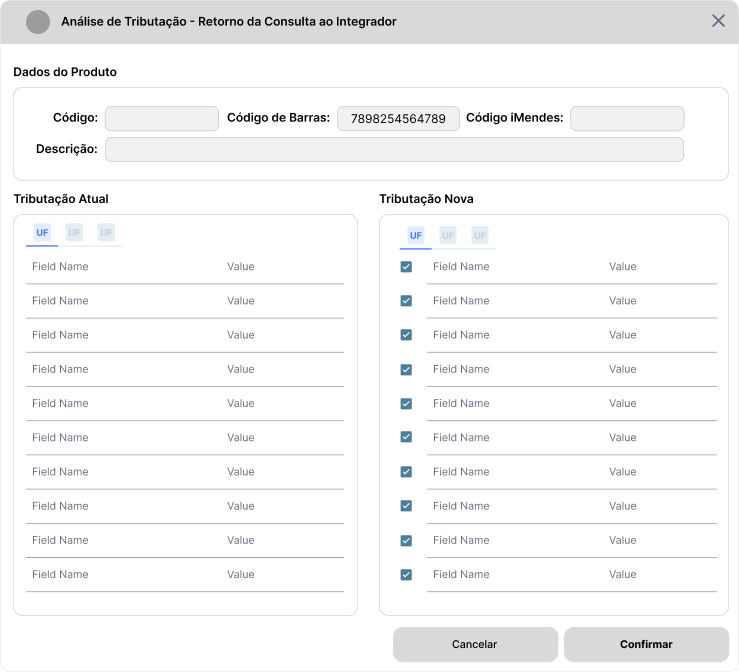
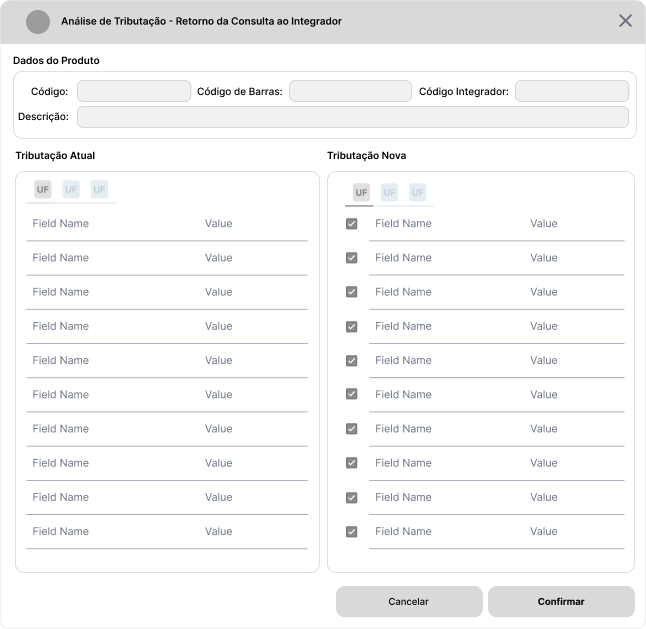
Update Documentation

Changed region(s): [[0.0, 0.0, 1.0, 0.876], [0.4954, 0.2417, 0.9598, 0.876], [0.4954, 0.9062, 0.9907, 0.9968]]

diff --git a/Documentação - Integrações.md b/Documentação - Integrações.md
@@ -38,7 +38,7 @@
 
 O **Roadmap** é um guia que indicará o caminho em uma ordem lógica para a implementação dos Recursos Necessários descritos neste documento. Cada Integrador Fiscal possui uma _rota_ específica que deve ser obedecida para que os objetivos sejam atingidos, entretanto, os **Recursos Globais** devem ser implementados antes de cada Integrador Esepecífico. Abaixo o diagrama.
 
-![Roadmap Completo](./Roadmap-Global.png)
+![Roadmap Completo](./Roadmap-Global0.png)
 
 # Requisitos
 
@@ -63,7 +63,7 @@ Determinados Integradores requerem informações específicas da Empresa que sã
 
 ## Cadastro de Finalidade de Operações
 
-Os Integradores **iMendes** e **Mix Fiscal** requerem que uma **Operação** seja definida durante a Composição de uma Consulta Tributária, e estas possuem dados específicos de envio para que o Retorno de dados tributários sejam coerentes com o **Cenário** informado.
+Alguns Integradores requerem que uma **Operação** seja bem definida durante a composição de uma Consulta Tributária, e estas possuem dados específicos de envio para que o Retorno de dados tributários sejam coerentes com o **Cenário** informado.
 
 - A **iMendes** requer que um Código **CFOP** seja enviado (correto ou não, mas válido e coerente com a operação de Entrada ou Saída desejada) para consultar Regras para a operação e demais características informadas. Mesmo que o CFOP não seja o correto, é necessário haver um Código padrão de envio para obter o correto da operação.
 - A **Mix Fiscal** requer que um **Cenário** Tributário pré-definido seja informado para consultar Regras e retornar os respectivos dados.
@@ -72,24 +72,23 @@ Deste modo, os novos campos necessários neste Cadastro são:
 | Tipo de Elemento | Posicionamento | Nome/Texto | Descritivo | Regras de Negócio | Integrador |
 |:---|:---|:---|:---|:---|:---:|
 | **Botão de Seleção** | Grupo de Dados da Finalidade | Tipo de Movimentação | Seleção para indicar se a Finalidade de Operação cadastrada é uma Movimentação do Tipo **Entrada** ou **Saída**. Utilizado em conjunto com os demais campos para complementar dados da Requisição. Esta informação também será utilizada para composição de Regras Fiscais de Entrada ou Saída | Preenchimento Obrigatório. | **Todos** |
-| **Caixa de Combinação** | Grupo de Dados da Finalidade | Espécie de Operação | Seleção para indicar a Espécie de Operação com base nas Movimentações existentes no Sistema, como por exemplo, as Movimentações existentes na Tela de Documentos Fiscais (Venda, Devolução de Venda, Devolução de Compra, Remessa de Entrega Futura, Saída para Consumo...) | Preenchimento Obrigatório. <br> Deve conter por padrão todas as "Operações" padronizadas possíveis que são: <br><br> - Entrada de Mercadorias <br> - Venda a Consumidor Final <br> - Venda a Contribuinte <br> - Acompanhamento de Cupom Fiscal <br> - Devolução de Compra <br> - Devolução de Venda <br> - Transferência de Estoque <br> - Saída para Consumo <br> - Saída para Produção <br> - Saída por Perda <br> - Remessa de Entrega Futura <br> - Reclassificação de Mercadorias | **Todos**
+| **Caixa de Combinação** | Grupo de Dados da Finalidade | Operação | Seleção para indicar a Espécie de Operação com base nas Movimentações existentes no Sistema, como por exemplo, as Movimentações existentes na Tela de Documentos Fiscais (Venda, Devolução de Venda, Devolução de Compra, Remessa de Entrega Futura, Saída para Consumo...) | Preenchimento Obrigatório. <br> Deve conter por padrão todas as "Operações" padronizadas possíveis que são: <br><br> - Entrada de Mercadorias <br> - Venda a Consumidor Final <br> - Venda a Contribuinte <br> - Acompanhamento de Cupom Fiscal <br> - Devolução de Compra <br> - Devolução de Venda <br> - Transferência de Estoque <br> - Saída para Consumo <br> - Saída para Produção <br> - Saída por Perda <br> - Remessa de Entrega Futura <br> - Reclassificação de Mercadorias | **Todos**
 | **Grupo de Dados** | Tela | Cenário Fiscal | Grupo para organizar dados específicos do Cenário Fiscal da Finalidade de Operação. | Preenchimento Obrigatório. | **Todos** |
-| **Campo** | Cenário Fiscal | CFOP Padrão Estadual | Campo para informar o Código do CFOP padrão para a Operação Estadual Cadastrada. Utilizado em conjunto com os demais campos para complementar dados da requisição à API **iMendes**. | Preenchimento Obrigatório. Validar se o CFOP existe na Tabela de CFOPs do Sistema Ganso conforme a definição do Tipo de Movimentação de **Entrada** ou **Saída**, e se o primeiro dígito é compatível com o Tipo de Movimentação: 1 para **Entrada** e 5 para **Saída**. | **iMendes** |
-| **Campo** | Cenário Fiscal | CFOP Padrão Interestadual | Campo para informar o Código do CFOP padrão para a Operação Interestadual Cadastrada. Utilizado em conjunto com os demais campos para complementar dados da requisição à API **iMendes**. | Preenchimento Obrigatório. Validar se o CFOP existe na Tabela de CFOPs do Sistema Ganso conforme a definição do Tipo de Movimentação de **Entrada** ou **Saída**, e se o primeiro dígito é compatível com o Tipo de Movimentação: 2 para **Entrada** e 6 para **Saída**. | **iMendes** |
-| **Caixa de Combinação** | Cenário Fiscal | Finalidade do Produto | Campo para definir a Finalidade do Produto. A API **iMendes** requer que seja informado o Código referente à finalidade do produto para retornar a regra correta. Deve existir por padrão as seguintes opções:<br> 0 = Revenda <br> 1 = Insumo <br> 2 = Uso e Consumo ou Ativo Imobilizado | Preenchimento obrigatório. Deve retornar o Código relacionado à opção definida. | **iMendes** |
-| **Grupo de Dados** | Cenário Fiscal | Mix Fiscal | Grupo para organizar dados específicos do Cenário Fiscal da Mix Fiscal. O Cenário Fiscal trata-se da **Operação** propriamente dita, considerada pela **Mix Fiscal**. Toda consulta Tributária requer o Envio de pelo menos Um Cenário. | Exibir apenas quando o Integrador Ativo for igual a **Mix Fiscal** | **Mix Fiscal** |
-| **Caixa de Combinação** | Mix Fiscal | Origem | Caixa de Combinação para definir o Parâmetro "Origem" exigido para Criação de um Cenário Fiscal na API Mix Fiscal. | Preenchimento Obrigatório quando o Integrador ativado é igual a **Mix Fiscal**. Deve existir por padrão as seguintes opções: <br> EI - Entrada Indústria <br> ED - Entrada Distribuidor <br> ES - Entrada Simples Nacional <br> BO - Bonificação <br> TR - Transferência. <br> A sigla referente à opção definida é utilizada na Criação de um Cenário Fiscal na API. | **Mix Fiscal** |
-| **Caixa de Combinação** | Mix Fiscal | Destino | Campo para definir o Parâmetro "Destino" requerido para Criação de um Cenário Fiscal na API **Mix Fiscal** | Preenchimento Obrigatório quando o Integrador ativado é igual a **Mix Fiscal**. A sigla referente à opção definida é utilizada na Requisição à API. Deve existir por padrão as seguintes opções: <br> SAC - Saída Atacado Contribuinte <br> SAS - Saída Atacado Simples Nacional <br> SVC - Saída Varejo Contribuinte <br> SNC - Saída Não Contribuinte <br> IND - Industrialização <br> TRA - Transferência | **Mix Fiscal** |
-| **Caixa de Combinação** | Mix Fiscal | UF Destino | Campo para definir a UF de destino exigida para criação de um Cenário Fiscal. Trata-se da UF da **Operação** e influencia nas informações tributárias que serão retornadas pela API. | Permitir selecionar apenas uma UF para o Cenário. Exibir todas as UFs. | **Mix Fiscal** |
-| **Campo de Texto** | Mix Fiscal | ID do Cenário | Campo para exibir o _hash_ do Cenário cadastrado na API da Mix Fiscal. [Ver Requisitos para Integração Mix Fiscal](#requisitos-da-integração-mix-fiscal) | Somente leitura. | **Mix Fiscal** |
-| **Texto** | Mix Fiscal | Criado em DD/MM/AAAA - HH:MM - Usuário | Texto para exibir a Data/Hora e Usuário que efetuou o Cadastro do Cenário Fiscal na API. | Somente Leitura. | **Mix Fiscal** |
-| **Texto** | Mix Fiscal | Modificado em DD/MM/AAAA - HH:MM - Usuário | Texto para exibir a Data/Hora e Usuário de modificação do Cadastro do Cenário Fiscal na API. | Somente Leitura. | **Mix Fiscal** |
-| **Botão** | Mix Fiscal | Atualizar Cenário Fiscal | Botão de ação para Atualizar o Cenário Fiscal cadastrado. | Deve existir um "ID Cenário" vinculado à finalidade cadastrada para que seja possível atualizar o Cenário na API Mix Fiscal. Usuário deve possuir permissão. [Ver Seção Acessos Restritos](#acessos-restritos) | **Mix Fiscal** |
-| **Botão** | Mix Fiscal | Criar Cenário Fiscal | Botão de ação para Criar um novo Cenário Fiscal com base nas informações inseridas no Cadastro de Finalidade. | O Usuário deve possuir permissão para executar a função. [Ver Seção Acessos Restritos](#acessos-restritos) | **Mix Fiscal** |
+| **Campo** | Cenário Fiscal | CFOP Padrão Estadual | Campo para informar o Código do CFOP padrão para a Operação Estadual Cadastrada. Utilizado em conjunto com os demais campos para complementar dados da requisição a API do Integrador, e para complementar dados da Regra Fiscal. | Preenchimento Obrigatório. Validar se o CFOP existe na Tabela de CFOPs do Sistema Ganso conforme a definição do Tipo de Movimentação de **Entrada** ou **Saída**, e se o primeiro dígito é compatível com o Tipo de Movimentação: 1 para **Entrada** e 5 para **Saída**. | **Todos** |
+| **Campo** | Cenário Fiscal | CFOP Padrão Interestadual | Campo para informar o Código do CFOP padrão para a Operação Interestadual Cadastrada. Utilizado em conjunto com os demais campos para complementar dados da requisição à API do Integrador. | Preenchimento Obrigatório. Validar se o CFOP existe na Tabela de CFOPs do Sistema Ganso conforme a definição do Tipo de Movimentação de **Entrada** ou **Saída**, e se o primeiro dígito é compatível com o Tipo de Movimentação: 2 para **Entrada** e 6 para **Saída**. | **Todos** |
+| **Caixa de Combinação** | Cenário Fiscal | Finalidade do Produto | Campo para definir a Finalidade do Produto. Alguns Integradores podem requerer este dado que se refere à finalidade do produto (destinação) para retornar a regra correta. Deve existir por padrão as seguintes opções:<br> 0 = Mercadoria para Revenda <br> 1 = Insumos de Produção <br> 2 = Materiais para Uso e Consumo ou Ativo Imobilizado | Preenchimento obrigatório. Deve retornar o Código relacionado à opção definida. | **Todos** |
+| **Caixa de Combinação** | Cenário Fiscal | Origem | Caixa de Combinação para definir a "Origem da Operação". Esta informação é exigida por alguns Integradores para criação de um _Cenário Fiscal_ na API. | Preenchimento Obrigatório quando o Integrador ativado é igual a **Mix Fiscal**. Deve existir por padrão as seguintes opções: <br> EI - Entrada Indústria <br> ED - Entrada Distribuidor <br> ES - Entrada Simples Nacional <br> BO - Bonificação <br> TR - Transferência. <br> A sigla referente à opção definida é utilizada na Criação de um Cenário Fiscal na API. | **Todos** |
+| **Caixa de Combinação** | Cenário Fiscal | Destino | Campo para definir o Parâmetro "Destino da Operação". Esta informação é exigida por alguns Integradores para criação de um _Cenário Fiscal_ na API. | Preenchimento Obrigatório quando o Integrador ativado é igual a **Mix Fiscal**. A sigla referente à opção definida é utilizada na Requisição à API. Deve existir por padrão as seguintes opções: <br> SAC - Saída Atacado Contribuinte <br> SAS - Saída Atacado Simples Nacional <br> SVC - Saída Varejo Contribuinte <br> SNC - Saída Não Contribuinte <br> IND - Industrialização <br> TRA - Transferência | **Todos** |
+| **Caixa de Combinação** | Cenário Fiscal | UF Destino | Campo para definir a UF de destino da Operação. Esta informação é exigida para criação de um _Cenário Fiscal_ na API. Trata-se da UF da **Operação** que influencia diretamente nas informações tributárias que serão retornadas pela API. | Permitir selecionar apenas uma UF da lista para o Cenário. | **Todos** |
+| **Campo de Texto** | Cenário Fiscal | Código Integrador | Campo para gravar e exibir o _hash_ do _Cenário Fiscal_ cadastrado na API do Integrador quando o recurso for exigido. Obrigatório existir quando o Integrador ativado é igual a **Mix Fiscal** | Somente leitura. | **Todos** |
+| **Texto** | Grupo de Dados da Finalidade | Criado em DD/MM/AAAA - HH:MM - Usuário | Texto para exibir a Data/Hora e Usuário que efetuou o Cadastro. | Somente Leitura. | **Todos** |
+| **Texto** | Grupo de Dados da Finalidade | Modificado em DD/MM/AAAA - HH:MM - Usuário | Texto para exibir a Data/Hora e Usuário de modificação do Cadastro do Cenário Fiscal. | Somente Leitura. | **Todos** |
+| **Botão** | Cenário Fiscal | Atualizar Cenário | Botão de ação para Atualizar o Cenário Fiscal cadastrado na API do Integrador, quando o recurso existir. | Deve existir um "Código Integrador" vinculado à finalidade cadastrada para que seja possível atualizar o Cenário na API do Integrador, quando o recurso existir. Usuário deve possuir permissão. [Ver Seção Acessos Restritos](#acessos-restritos) | **Todos** |
+| **Botão** | Cenário Fiscal | Criar Cenário Integrador | Botão de ação para Criar um novo Cenário Fiscal com base nas informações inseridas no Cadastro de Finalidade. | O Usuário deve possuir permissão para executar a função. [Ver Seção Acessos Restritos](#acessos-restritos) | **Todos** |
 
 O _Wireframe_ abaixo ilustra os elementos descritos acima para o Cadastro de Finalidade de Operação.
 
-![Wireframe - Cadastro de Finalidade de Operação](./Wireframe-Cadastro-Finalidade0.png)
+![Wireframe - Cadastro de Finalidade de Operação](./Wireframe-Cadastro-Finalidade.png)
 
 [Voltar ao Sumário](#documentação-de-requisitos---integrações-fiscais) | [Voltar ao Roadmap](#roadmap)
 
@@ -97,35 +96,22 @@ O _Wireframe_ abaixo ilustra os elementos descritos acima para o Cadastro de Fin
 
 Além de uma Operação bem definida, o Integrador **iMendes** requer que seja enviada na requisição uma **Característica Tributária** (Código específico) que no Sistema Ganso é definido como **Perfil Fiscal**. Atualmente, este cadastro é aberto e definido pelo usuário, e não garante que um Código de Característica coerente seja enviado. Desde modo, é necessário criar um campo que contenha esta informação pré-definida que também poderá ser utilizada por outros Integradores Fiscais.
 
-| Tipo de Elemento        | Nome/Texto                | Descritivo                                                                                                                                                                                                                                         | Regras de Negócio                                                      | Integrador  |
-| :---------------------- | :------------------------ | :------------------------------------------------------------------------------------------------------------------------------------------------------------------------------------------------------------------------------------------------- | :--------------------------------------------------------------------- | :---------: |
-| **Caixa de Combinação** | Regime Tributário         | Campo para informar o Regime Tributário vinculado ao Perfil Fiscal. Esta informação é importante para composição de Regras Fiscais e criação de Cenários Fiscais. Disponibilizar as opções **"Lucro Real", "Lucro Presumido", "Simples Nacional"** | Preenchimento Obrigatório                                              |  **Todos**  |
-| **Caixa de Combinação** | Característica Tributária | Campo para informar a característica tributária (tipo de perfil) vinculada ao Perfil Fiscal criado. O Perfil Fiscal poderá ter uma descrição livre. Apenas o Código vinculado à característica é utilizado na Requisição.                          | Preenchimento obrigatório se o Integrador **iMendes** estiver ativado. | **iMendes** |
+| Tipo de Elemento        | Nome/Texto                | Descritivo                                                                                                                                                                                                                                         | Regras de Negócio                                                                                                                                                                                                                                                                                                                                              | Integrador |
+| :---------------------- | :------------------------ | :------------------------------------------------------------------------------------------------------------------------------------------------------------------------------------------------------------------------------------------------- | :------------------------------------------------------------------------------------------------------------------------------------------------------------------------------------------------------------------------------------------------------------------------------------------------------------------------------------------------------------- | :--------: |
+| **Caixa de Combinação** | Regime Tributário         | Campo para informar o Regime Tributário vinculado ao Perfil Fiscal. Esta informação é importante para composição de Regras Fiscais e criação de Cenários Fiscais. Disponibilizar as opções **"Lucro Real", "Lucro Presumido", "Simples Nacional"** | Preenchimento Obrigatório                                                                                                                                                                                                                                                                                                                                      | **Todos**  |
+| **Caixa de Combinação** | Característica Tributária | Campo para informar a característica tributária (tipo de perfil) vinculada ao Perfil Fiscal criado. O Perfil Fiscal poderá ter uma descrição livre, contudo, deve ser vinculado à característica padronizada que é utilizada na Requisição.        | Preenchimento obrigatório se o Integrador **iMendes** estiver ativado. <br> Deve existir as seguintes opções: <br> - Industrial <br> - Distribuidor <br> - Atacadista <br> - Varejista <br> - Produtor Rural Pessoa Jurídica <br> - Produtor Rural Pessoa Física <br> - Pessoa Jurídica não Contribuinte do ICMS <br> - Pessoa Física não Contribuinte do ICMS | **Todos**  |
 
-Abaixo a tabela de Códigos e Descrição padrão que o Sistema deverá oferecer:
-
-| Descritivo                               |
-| :--------------------------------------- |
-| Industrial                               |
-| Distribuidor                             |
-| Atacadista                               |
-| Varejista                                |
-| Produtor Rural Pessoa Jurídica           |
-| Produtor Rural Pessoa Física             |
-| Pessoa Jurídica não Contribuinte do ICMS |
-| Pessoa Física não Contribuinte do ICMS   |
-
-Esta informação também será necessária para a Atualização/Criação de Regras Fiscais de Entrada e Saída automáticas conforme Resultado das Consultas aos Integradores Fiscais.
+Estas informações são necessárias para a Atualização/Criação de Regras Fiscais de Entrada e Saída automaticamente conforme Resultado das Consultas aos Integradores Fiscais.
 
 [Voltar ao Sumário](#documentação-de-requisitos---integrações-fiscais) | [Voltar ao Roadmap](#roadmap)
 
 ## Cadastro de Produtos
 
-Para disponibilizar ao Usuário um Método de Consulta de Tributos através do Cadastro de um Produto (e quadno o Integrador permitir tal recurso), é necessário incluir **Funções Específicas** e **Campos Específicos**, descritos a seguir:
+Para disponibilizar ao Usuário o Método de Consulta de Tributos através do Cadastro de um Produto (e quando o Integrador contemplar tal recurso), é necessário incluir **Funções Específicas** e **Campos Específicos**, descritos a seguir:
 
 ### Funções
 
-| Nome                                          | Descritivo                                                                                                                                                                                     | Regras de Negócio                                                                                   | Integrador  |
+| Nome                                          | Descritivo                                                                                                                                                                                     | Regras de Negócio                                                                            | Integrador  |
 | :-------------------------------------------- | :--------------------------------------------------------------------------------------------------------------------------------------------------------------------------------------------- | :------------------------------------------------------------------------------------------- | :---------: |
 | Consultar Tributação                          | Aciona a Consulta Tributária conforme Integrador ativado                                                                                                                                       | Solicitar Acesso Restrito para a Operação [Ver Seção Acessos Restritos](#acessos-restritos)  |  **Todos**  |
 | Consultar Histórico de Alterações Tributárias | Aciona a visualização do Histórico de Alterações do Produto                                                                                                                                    | Solicitar Acesso Restrito para a Operação [Ver Seção Acessos Restritos](#acessos-restritos)  | **iMendes** |
@@ -133,12 +119,12 @@ Para disponibilizar ao Usuário um Método de Consulta de Tributos através do C
 
 ### Novos Campos
 
-| Tipo                 | Posicionamento                | Nome/Texto                             | Descritivo                                                                                                                                                                                                                                                                                                                                                       | Regras de Negócio                                                                                                                                                                                                                       |   Integrador    |
-| :------------------- | :---------------------------- | :------------------------------------- | :--------------------------------------------------------------------------------------------------------------------------------------------------------------------------------------------------------------------------------------------------------------------------------------------------------------------------------------------------------------- | :------------------------------------------------------------------------------------------------------------------------------------------------------------------------------------------------------------------------------- | :-------------: |
-| **Campo**            | **Grupo de Dados do Produto** | Código iMendes                         | Campo para armazenar e exibir o Código iMendes, quando ocorrer o vínculo efetuado pelo Usuário durante a Consulta por Descrição                                                                                                                                                                                                                                  | Tipo Numérico Inteiro e Somente Leitura                                                                                                                                                                                          |   **iMendes**   |
-| **Campo**            | A definir                     | Auditado por (Integrador Fiscal)       | Campo para armazenar e exibir a informação de que o Produto teve a tributação auditada/atualizada pelo Integrador Fiscal. Complementar esta informação com a Data/Hora da última atualização tributária.                                                                                                                                                         | Somente leitura e visualmente destacado.                                                                                                                                                                                         |   **iMendes**   |
-| **Campo**            | A definir                     | Enviado para Integrador Fiscal         | Campo para armazenar e exibir a informação de que o Produto foi enviado para Revisão Tributária para o Integrador Fiscal. Será utilizado para identificar quais Produtos estão pendentes de recepção da Tributação do Integrador **iMendes**, e como _flag_ para indicar que precisa receber atualização. Complementar esta informação com a Data/Hora do envio. | Somente leitura e visualmente destacado.                                                                                                                                                                                         |    **Todos**    |
-| **Caixa de Seleção** | A definir                     | **Não Tributar por Integrador Fiscal** | Parâmetro para restringir a atualização de Tributos do Produto pelo Integrador Fiscal (_exceto Mix Fiscal_) ativo. Por decisão do Usuário, alguns produtos podem ser tributados seguindo a sua própria interpretação ou por orientação de sua contabilidade, e não irão receber atualizações do Integrador.                                                      | Solicitar Acesso Restrito. [Ver Seção Acessos Restritos](#acessos-restritos). <br><br>O Integrador Mix Fiscal requer formalização via e-mail esta decisão, portanto, esta opção deve ser desativado para o Integrador Mix Fiscal | **iMendes/FGF** |
+| Tipo                 | Posicionamento                | Nome/Texto                             | Descritivo                                                                                                                                                                                                                                                                                                                                                                   | Regras de Negócio                                                                                         | Integrador  |
+| :------------------- | :---------------------------- | :------------------------------------- | :--------------------------------------------------------------------------------------------------------------------------------------------------------------------------------------------------------------------------------------------------------------------------------------------------------------------------------------------------------------------------- | :-------------------------------------------------------------------------------------------------------- | :---------: |
+| **Campo**            | **Grupo de Dados do Produto** | Código do Integrador                   | Campo para armazenar e exibir o Código do Produto da Base do Integrador, quando ocorrer o vínculo efetuado pelo Usuário durante a Consulta por Descrição, quando o Integrador possui tal recurso.                                                                                                                                                                            | Tipo Numérico Inteiro e Somente Leitura                                                                   |  **Todos**  |
+| **Campo**            | A definir                     | Auditado por (Integrador Fiscal)       | Campo para armazenar e exibir a informação de que o Produto teve a tributação auditada/atualizada pelo Integrador Fiscal. Complementar esta informação com a Data/Hora da última atualização tributária.                                                                                                                                                                     | Somente leitura e visualmente destacado.                                                                  | **iMendes** |
+| **Campo**            | A definir                     | Enviado para Integrador Fiscal         | Campo para armazenar e exibir a informação de que o Produto foi enviado para Revisão Tributária para o Integrador Fiscal. Será utilizado para identificar quais Produtos estão pendentes de recepção da Tributação do Integrador, e como _flag_ para indicar que precisa receber atualização. Complementar esta informação com a Data/Hora do envio.                         | Criar Siglas específicas, que representem a real situação. Campo Somente leitura e visualmente destacado. |  **Todos**  |
+| **Caixa de Seleção** | A definir                     | **Não Tributar por Integrador Fiscal** | Parâmetro para restringir a atualização de Tributos do Produto pelo Integrador Fiscal ativo, quando o Integrador permite tal recurso. Por decisão do Usuário, alguns produtos podem ser tributados seguindo a sua própria interpretação ou por orientação de sua contabilidade, e não deverão receber atualizações tributárias do Integrador ou serem enviados para revisão. | Solicitar Acesso Restrito. [Ver Seção Acessos Restritos](#acessos-restritos).                             |
 
 ## Regra Fiscal Ganso
 
@@ -178,7 +164,7 @@ O Integrador **iMendes** oferece opção para Usuário consultar a Tributação 
 
 O _Wireframe_ abaixo ilustra os elementos descritos acima para a Nova Tela.
 
-![Wireframe - Nova Tela - Gerenciador Tributário](./Wireframe-Tax-Manager.png)
+![Wireframe - Nova Tela - Gerenciador Tributário](./Wireframe-Tax-Manager0.png)
 
 [Voltar ao Sumário](#documentação-de-requisitos---integrações-fiscais) | [Voltar ao Roadmap](#roadmap)
 
